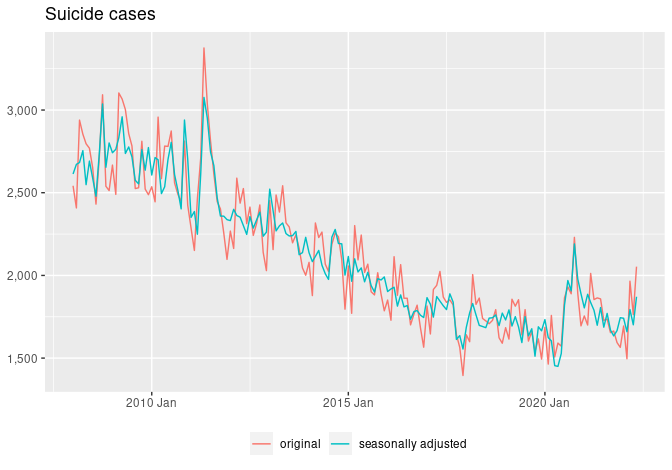
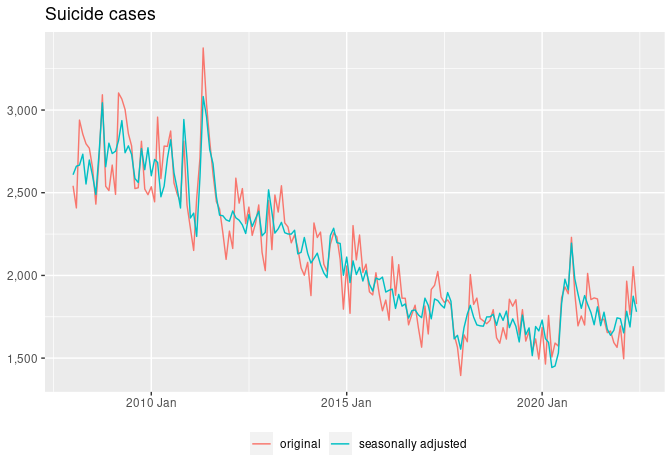
preliminary June 2022 cases

Changed region(s): [[0.0938, 0.1191, 0.9688, 0.8043], [0.75, 0.834, 0.8438, 0.8638], [0.4688, 0.834, 0.5625, 0.8638]]

diff --git a/README.md b/README.md
@@ -10,7 +10,7 @@ Mitsuo Shiota
 -   [Suicide cases are bouncing back, but not as fast as the program
     suggests](#suicide-cases-are-bouncing-back-but-not-as-fast-as-the-program-suggests)
 
-Updated: 2022-07-01
+Updated: 2022-07-12
 
 ## Motivation
 
